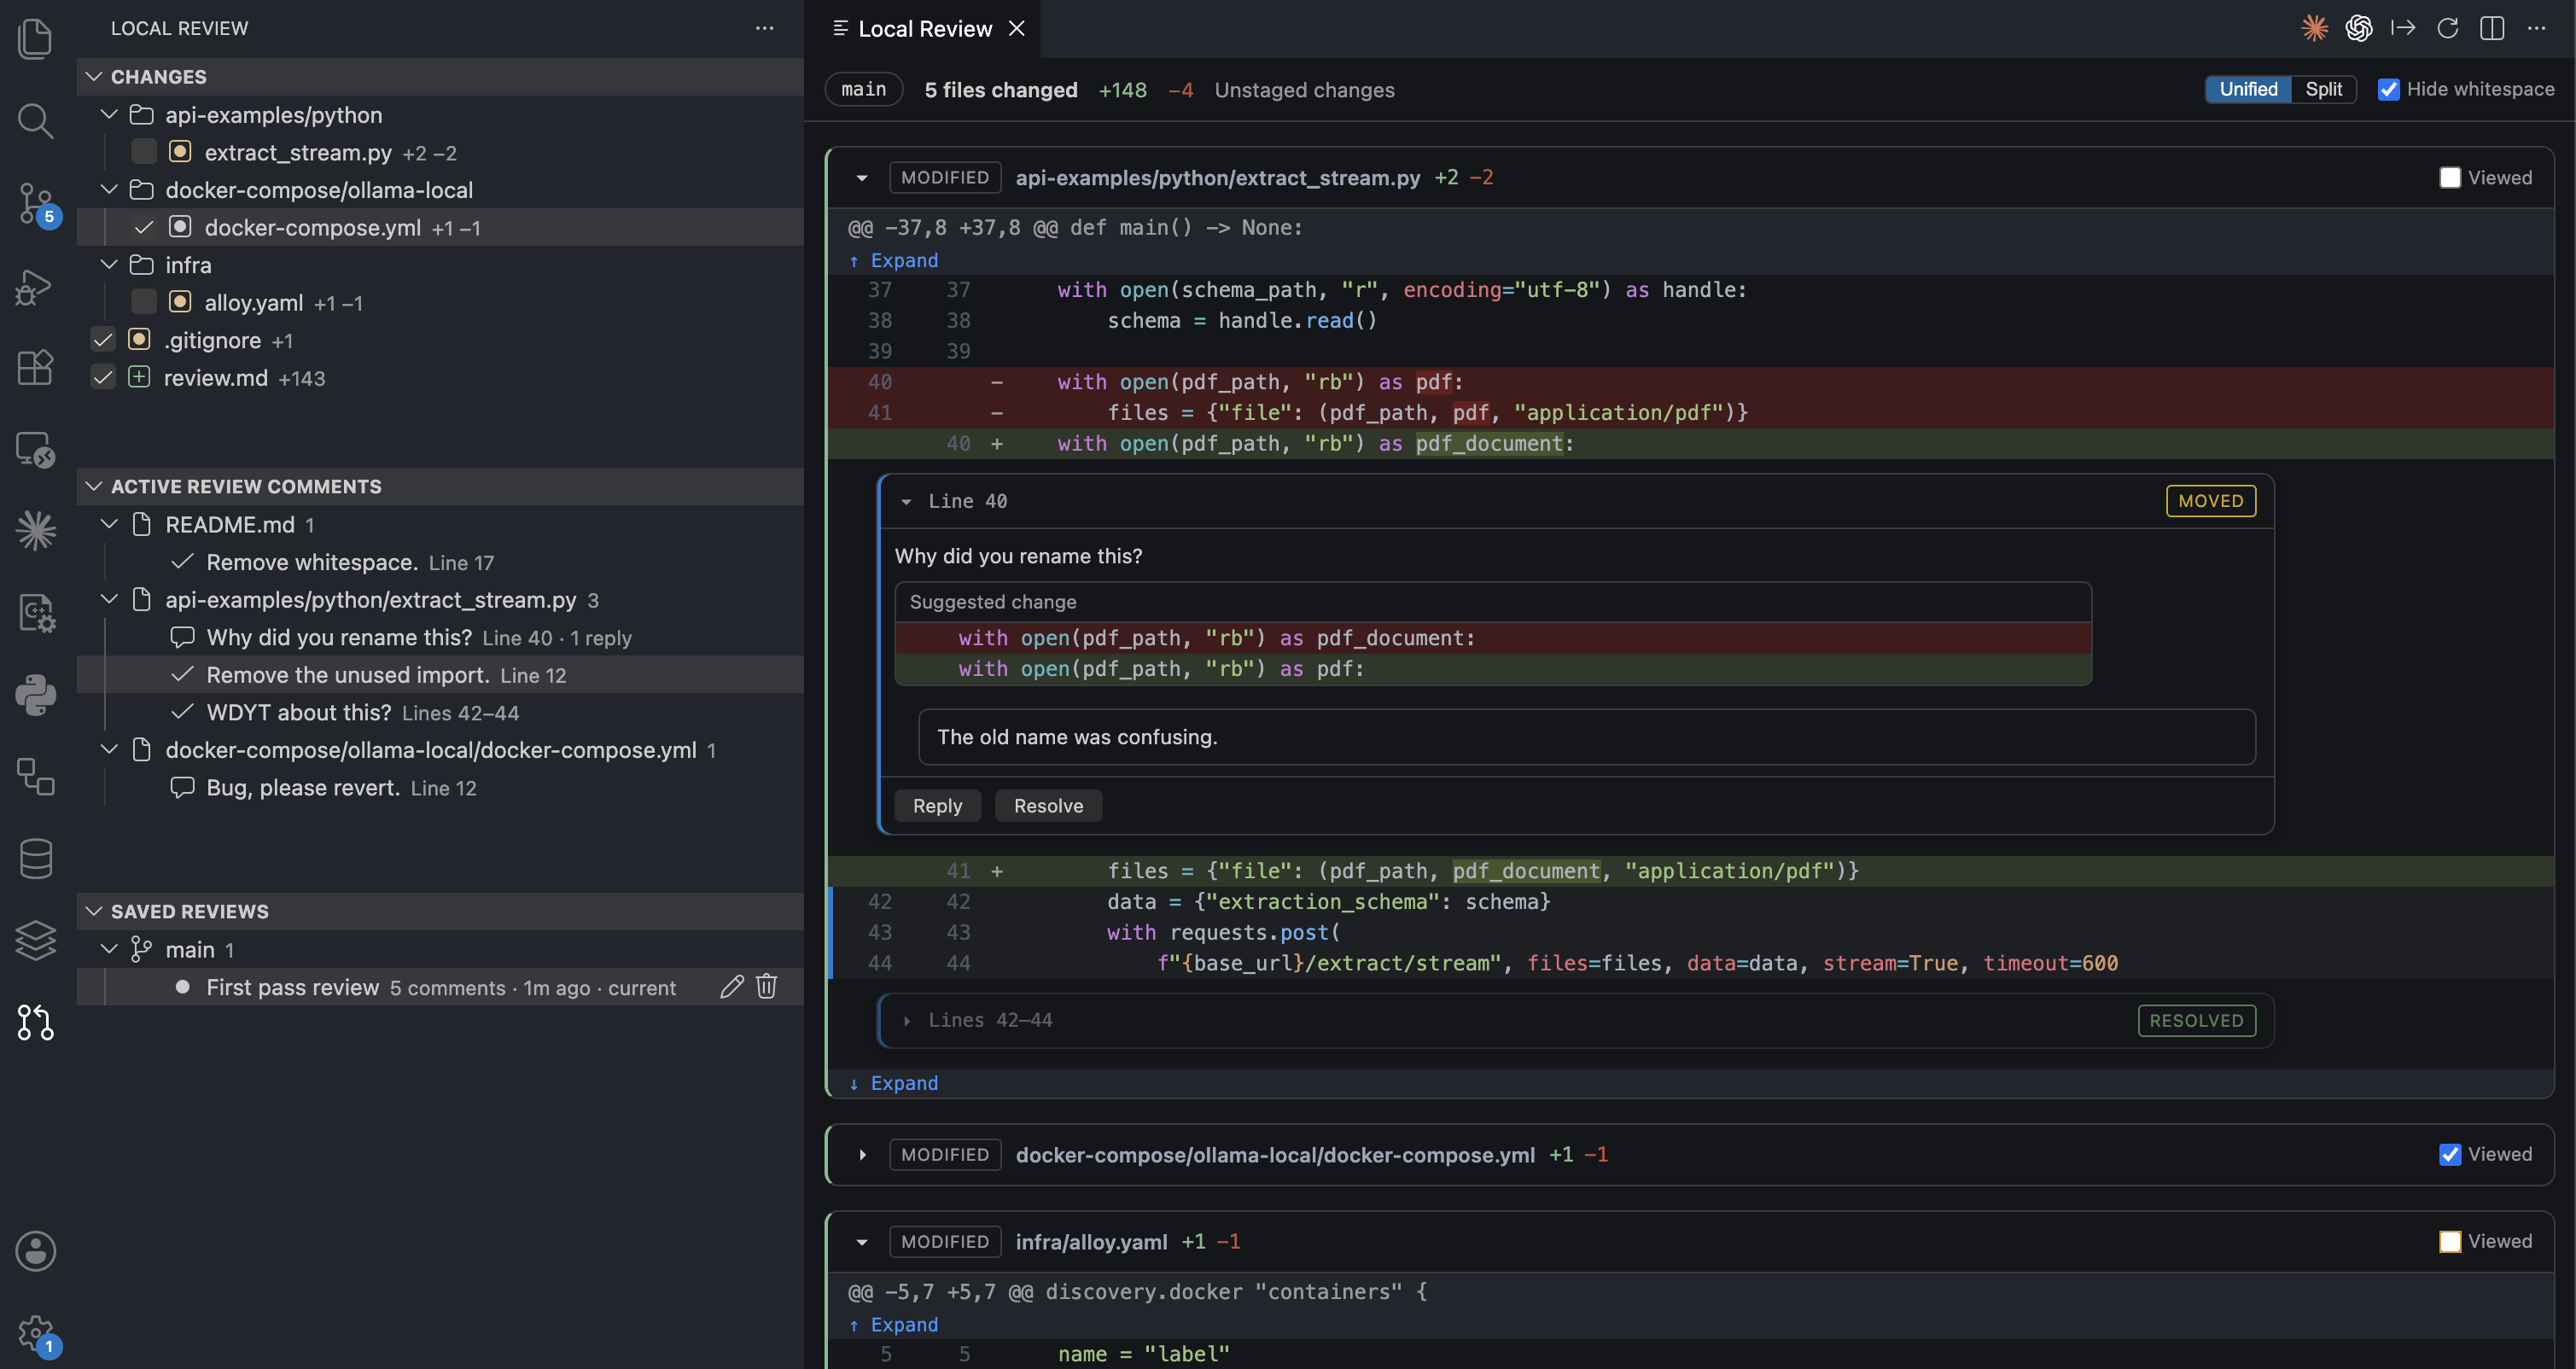
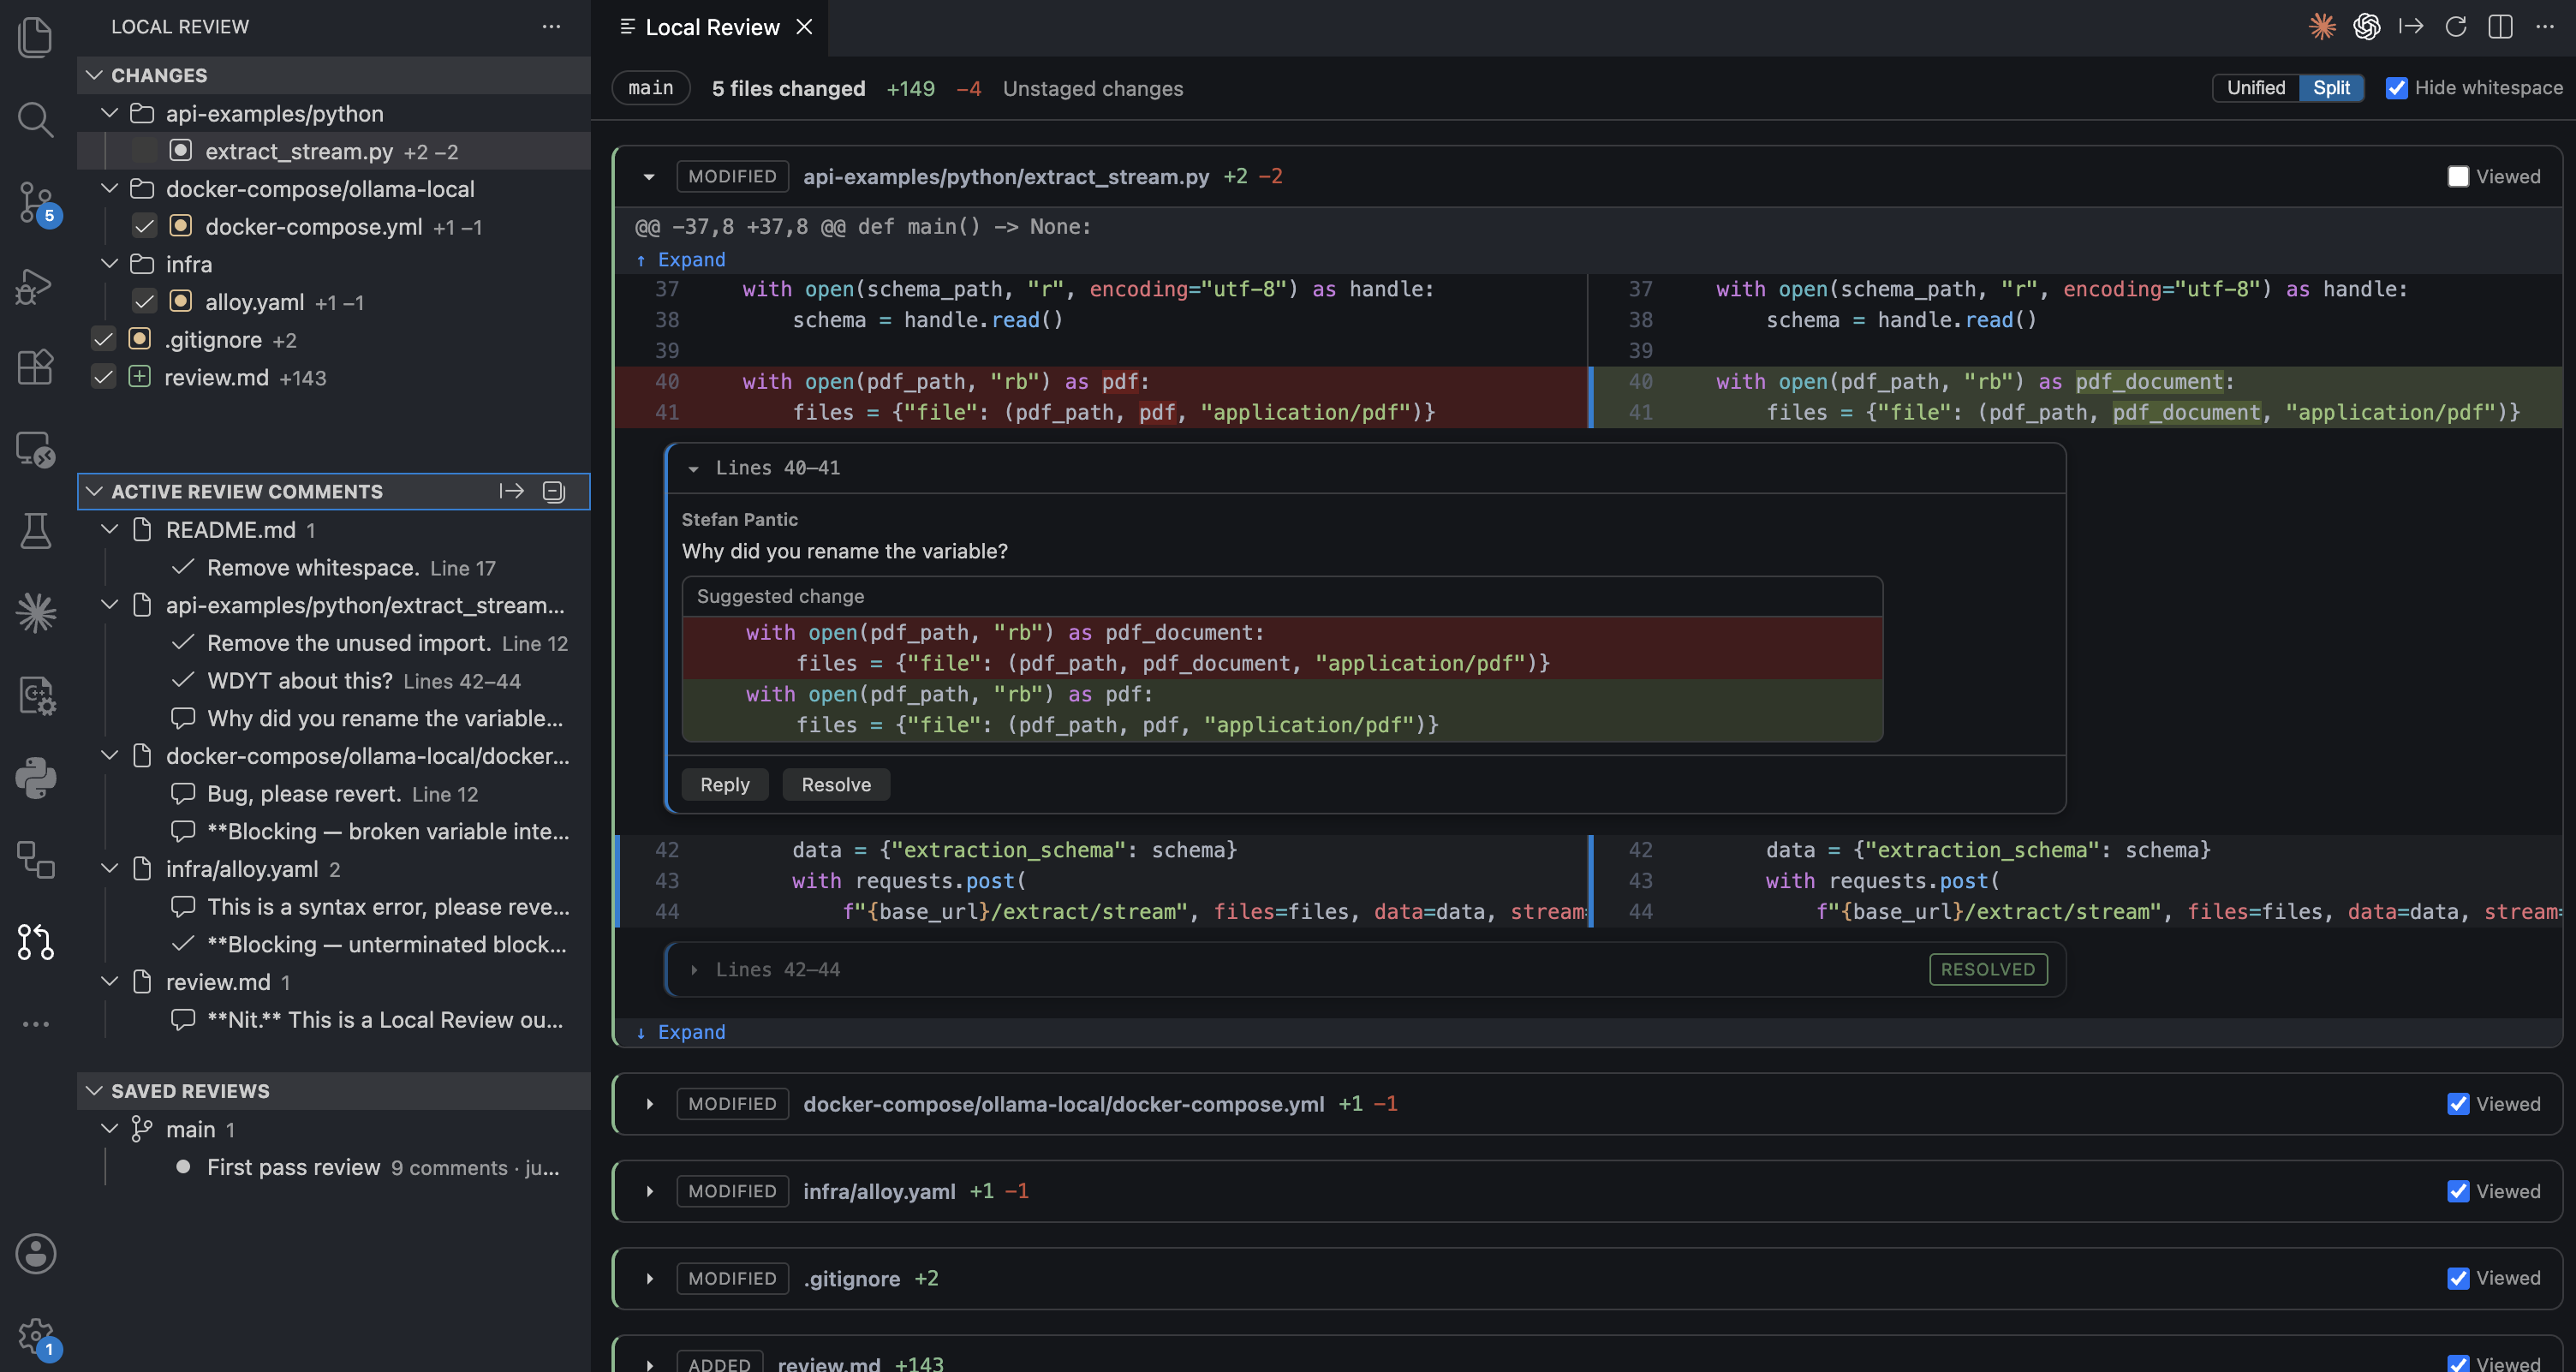
feat: make MCP setup client-agnostic
The MCP server is a standard server, so setup no longer targets Claude
specifically. "Set up MCP" (renamed from "Set up MCP for Claude Code")
writes .local-review/mcp.json with the URL, token, and ready-to-run
connect commands for Claude Code and a generic mcpServers config as
comments; the notification points to that file rather than copying a
Claude-only command.

Also refreshes the README (getting started, the agent/MCP loop, no
em-dashes) and updates the hero screenshot.

diff --git a/src/extension.ts b/src/extension.ts
@@ -104,21 +104,20 @@ export async function activate(context: vscode.ExtensionContext): Promise<void> 
       return;
     }
     const { url, token } = mcpHandle;
-    await writeMcpArtifacts(url, token);
-    // Remove-then-add so re-running is idempotent — it clears any prior (possibly stale-port) entry first.
-    const command = `claude mcp remove local-review 2>/dev/null; claude mcp add --transport http local-review ${url} --header "Authorization: Bearer ${token}"`;
-    await vscode.env.clipboard.writeText(command);
+    const jsonUri = await writeMcpArtifacts(url, token);
     const choice = await vscode.window.showInformationMessage(
       'Local Review MCP server is running.',
       {
         modal: true,
-        detail: `URL: ${url}\n\nTo (re)connect Claude Code, run this in your project (already copied to your clipboard). It replaces any existing entry:\n\n${command}`,
+        detail: `URL: ${url}\n\nConnect your MCP client using .local-review/mcp.json — it has the URL + token and ready-to-run connect commands for Claude Code and other clients.`,
       },
-      'Copy command again',
+      'Open mcp.json',
+      'Copy URL',
     );
-    if (choice === 'Copy command again') await vscode.env.clipboard.writeText(command);
+    if (choice === 'Open mcp.json' && jsonUri) await vscode.window.showTextDocument(jsonUri);
+    else if (choice === 'Copy URL') await vscode.env.clipboard.writeText(url);
   };
-  // Start on demand. First time (never configured) runs setup so the user gets the connect command.
+  // Start on demand. First time (never configured) runs setup so the user gets the connect details.
   const startMcp = async (): Promise<void> => {
     if (!context.workspaceState.get<boolean>('localReview.mcp.configured')) {
       await setupMcp();
@@ -126,7 +125,13 @@ export async function activate(context: vscode.ExtensionContext): Promise<void> 
     }
     mcpDesired = true;
     await syncMcp();
-    if (mcpHandle) void vscode.window.showInformationMessage(`Local Review MCP server is running at ${mcpHandle.url}.`);
+    if (!mcpHandle) return;
+    const jsonUri = await writeMcpArtifacts(mcpHandle.url, mcpHandle.token);
+    const choice = await vscode.window.showInformationMessage(
+      `Local Review MCP server is running at ${mcpHandle.url}.`,
+      'Open mcp.json',
+    );
+    if (choice === 'Open mcp.json' && jsonUri) await vscode.window.showTextDocument(jsonUri);
   };
   const stopMcp = async (): Promise<void> => {
     mcpDesired = false;
@@ -206,17 +211,36 @@ export function deactivate(): void {
   // context.subscriptions handles cleanup
 }
 
-/** Write the MCP connection file (`.local-review/mcp.json`) and make sure `.local-review/` is gitignored. */
-async function writeMcpArtifacts(url: string, token: string): Promise<void> {
+/**
+ * Write the client-agnostic connect file (`.local-review/mcp.json`) and gitignore `.local-review/`; returns its Uri.
+ * It's a standard MCP server, so connect commands for common clients live as comments and the connection
+ * details are the JSON body. Nothing parses this file — it's a reference the user opens.
+ */
+async function writeMcpArtifacts(url: string, token: string): Promise<vscode.Uri | undefined> {
   const folder = vscode.workspace.workspaceFolders?.[0];
-  if (!folder) return;
+  if (!folder) return undefined;
   const root = folder.uri.fsPath;
   await fs.mkdir(path.join(root, '.local-review'), { recursive: true });
-  await fs.writeFile(
-    path.join(root, '.local-review', 'mcp.json'),
-    JSON.stringify({ url, token }, null, 2) + '\n',
-    'utf8',
-  );
+
+  const content = `// Local Review MCP server — a standard, local (127.0.0.1), token-guarded MCP server over Streamable HTTP.
+// Connect any MCP client with the url + token below. Ready-to-use options:
+//
+// Claude Code (CLI):
+//   claude mcp remove local-review 2>/dev/null; claude mcp add --transport http local-review ${url} --header "Authorization: Bearer ${token}"
+//
+// mcpServers config (Claude Desktop, Cursor, Windsurf, VS Code, …) — add under "mcpServers":
+//   "local-review": {
+//     "type": "http",
+//     "url": "${url}",
+//     "headers": { "Authorization": "Bearer ${token}" }
+//   }
+//
+// Regenerated by "Set up MCP" / "Start MCP Server". The port + token persist across restarts.
+${JSON.stringify({ url, token, transport: 'http' }, null, 2)}
+`;
+  const jsonUri = vscode.Uri.file(path.join(root, '.local-review', 'mcp.json'));
+  await fs.writeFile(jsonUri.fsPath, content, 'utf8');
+
   const gitignore = path.join(root, '.gitignore');
   let text = '';
   try {
@@ -227,6 +251,7 @@ async function writeMcpArtifacts(url: string, token: string): Promise<void> {
   if (!text.split(/\r?\n/).some((line) => line.trim().replace(/\/$/, '') === '.local-review')) {
     await fs.writeFile(gitignore, text + (text && !text.endsWith('\n') ? '\n' : '') + '.local-review/\n', 'utf8');
   }
+  return jsonUri;
 }
 
 const SOURCES: { label: string; description: string; source: DiffSource }[] = [

diff --git a/README.md b/README.md
@@ -5,43 +5,55 @@
 [![Conventional Commits](https://img.shields.io/badge/Conventional%20Commits-1.0.0-fe5196.svg)](https://www.conventionalcommits.org)
 [![code style: Prettier](https://img.shields.io/badge/code_style-Prettier-ff69b4.svg)](https://prettier.io)
 
-**Review your local changes like a GitHub pull request — without opening one.**
+Review your local git changes like a pull request, without opening one. Then hand the review to a coding agent, or let the agent post its own.
 
-Local Review renders your working-tree diff as a continuous, PR-style review surface right inside VS Code: side-by-side or unified, syntax-highlighted, with inline comments on any line or range. When you're done, it exports a structured Markdown work list you can hand to a coding agent (e.g. Claude Code) to action.
+> **Everything stays on your machine.** No remote, no PR, no account, no telemetry.
 
-> **Everything stays on your machine.** No remote, no PR, no account, no telemetry. Local Review never sends your code anywhere — it's a private review loop for your own changes.
+![Local Review: a unified diff with an inline comment, a suggested change, and the sidebar showing changed files, active comments, and saved reviews](docs/images/review-panel.png)
 
-![Local Review — a unified diff with an inline comment, a suggested change, and the sidebar showing changed files, active comments, and saved reviews](docs/images/review-panel.png)
+## What it does
 
-## Why
+- Renders your working-tree diff as a continuous, PR-style review inside VS Code (unified or side-by-side, syntax-highlighted).
+- Lets you comment on any line or range, on added or removed lines, with reply, resolve, and code suggestions.
+- Keeps comments anchored as code shifts. They drift with their lines, or go "outdated", never silently lost.
+- Saves a review per branch automatically.
+- Hands off to a coding agent two ways: a structured Markdown export, or a live MCP connection.
 
-Opening a draft PR just to get a structured, line-anchored review of your own work is heavyweight: it needs a remote, pollutes history, and round-trips through a server. Local Review keeps the _discipline_ of PR review — continuous diff, "viewed" tracking, line comments, resolve/reply — entirely local, and turns the result into an agent-ready task list.
+## Getting started
 
-## The review loop
+1. Install the extension (see [Install](#install)).
+2. Make some local changes, then open **Local Review** from the activity bar. The diff opens in a full-width tab.
+3. Hover a line and click **+** (or drag to select a range) to comment. Reply and resolve as you go.
+4. Hand it to a coding agent:
+   - **Export:** run **Export Review** for a Markdown work list (clipboard, file, or editor), then paste it into your agent.
+   - **MCP (live):** run **Set up MCP**, connect your agent, and it reads the diff and posts comments straight into the review.
 
-1. Make some local changes.
-2. Open **Local Review** from the activity bar — the diff opens in a full-width editor tab.
-3. Read it: toggle unified/side-by-side, hide whitespace, mark files as viewed.
-4. Leave inline comments on lines or ranges (on added _and_ removed lines); reply and resolve as your thinking evolves.
-5. **Export Review** → a structured Markdown file (or clipboard).
-6. Paste it into your coding agent to action the comments. As the agent edits, your comments **drift** with their lines or surface as _outdated_.
+## Agent integration (MCP)
+
+Local Review runs a standard, local MCP server (bound to `127.0.0.1`, token-guarded, off by default) that any MCP client can use. The handoff goes both ways: you comment and the agent actions it, and the agent can post its own comments, replies, and suggestions that show up in the panel attributed to "AI Agent", anchored like yours.
+
+1. Run **Local Review: Set up MCP**. Pick a port and whether to start it on launch.
+2. It writes `.local-review/mcp.json` with the URL, token, and ready-to-run connect commands (Claude Code, plus a generic `mcpServers` config for other clients).
+3. Connect your client. Use **Start MCP Server** / **Stop MCP Server** to control it anytime.
+
+Tools the agent gets: `get_diff`, `get_review`, `list_reviews`, `post_comment`, `reply`, `resolve`. It never writes to your files. It posts comments, and actions them by editing code itself.
 
 ## Features
 
-- **Continuous multi-file diff** across everything that changed, in one scrollable surface.
-- **Unified and side-by-side** rendering, toggleable.
-- **Syntax highlighting**, with **intra-line word highlighting** — a modified line highlights only the characters that actually changed (like the native diff editor).
-- **Expand context** at hunk boundaries to reveal the surrounding unchanged lines.
+- **Unified and side-by-side** diff, toggleable.
+- **Syntax highlighting** with intra-line word highlighting (only the changed characters light up).
+- **Expand context** at hunk boundaries to reveal surrounding lines.
 - **Hide whitespace** changes.
-- **Inline comments** on single lines and multi-line ranges, on both the old and new side — with **edit / delete / reply / resolve**.
-- **Suggestions** — propose replacement code inside a comment, rendered as a before→after diff and captured in the export. (Suggestions are never written to your files.)
-- **Line drift** — comments follow their lines as code changes, and become _outdated_ (never silently deleted) when they can't be matched.
-- **Branch-tied review sessions** — your comments are saved automatically per branch. Switch branches and the matching review follows. Reviews for deleted/merged branches are **archived**, never lost, and can be moved to the current branch.
-- **Structured Markdown export** — grouped by file with locations, diff context, comment text, and suggestion blocks. Scope to all comments, unresolved only, or a single file; reference lines by their current (re-anchored) positions or as originally reviewed; copy to clipboard, open in an editor, or save to a file.
+- **Inline comments** on single lines or ranges, old or new side, with edit, delete, reply, resolve.
+- **Suggestions:** propose replacement code in a comment, rendered as a before/after diff and captured in the export. Never written to disk.
+- **Markdown comments**, rendered in the panel.
+- **Line drift:** comments follow their lines, and go "outdated" instead of vanishing when they can't be matched.
+- **Branch-tied reviews:** saved automatically per branch. Reviews for deleted or merged branches are archived, not lost, and can be moved to the current branch.
+- **Structured Markdown export:** grouped by file, scoped to all, unresolved, or one file, at current or as-reviewed line positions.
 
 ## Diff sources
 
-Pick what you're reviewing from **Select Diff Source**:
+Pick what you review from **Select Diff Source**:
 
 | Source                    | What it shows                          |
 | ------------------------- | -------------------------------------- |
@@ -50,15 +62,14 @@ Pick what you're reviewing from **Select Diff Source**:
 | **Staged changes**        | staged for commit                      |
 | **Compare with a branch** | diff against another local branch      |
 
-Switching source only changes _what diff you see_ — your comments re-anchor against whatever is loaded, so staging a hunk or switching source never orphans a comment.
+Switching source changes only what you see. Comments re-anchor against whatever is loaded, so staging a hunk or switching source never orphans one.
 
 ## Install
 
-Local Review isn't on the Marketplace yet. Install the packaged `.vsix`:
+Not on the Marketplace yet. Install the packaged `.vsix`:
 
-1. Download `local-review-<version>.vsix` from the [Releases](https://github.com/stefanpantic/local-review-vscode-extension/releases) page — or build it yourself with `pnpm run package` (see [CONTRIBUTING](CONTRIBUTING.md)).
-2. In VS Code: **Extensions** view → **⋯** menu → **Install from VSIX…** → pick the file.
-   (Or from the command line: `code --install-extension local-review-<version>.vsix`.)
+1. Download `local-review-<version>.vsix` from [Releases](https://github.com/stefanpantic/local-review-vscode-extension/releases), or build it with `pnpm run package` (see [CONTRIBUTING](CONTRIBUTING.md)).
+2. In VS Code: **Extensions** view, `⋯` menu, **Install from VSIX…**. Or run `code --install-extension local-review-<version>.vsix`.
 
 ## Keybindings
 
@@ -70,19 +81,21 @@ Local Review isn't on the Marketplace yet. Install the packaged `.vsix`:
 
 ## Settings
 
-| Setting                             | Default            | Description                                                                     |
-| ----------------------------------- | ------------------ | ------------------------------------------------------------------------------- |
-| `localReview.defaultSource`         | `worktree-vs-head` | Diff source when a review is first opened.                                      |
-| `localReview.defaultViewMode`       | `unified`          | Default rendering mode (`unified` or `split`).                                  |
-| `localReview.defaultHideWhitespace` | `false`            | Hide whitespace-only changes by default.                                        |
-| `localReview.includeUntracked`      | `true`             | Include untracked files (as all-addition entries; ignores `.gitignore`d files). |
-| `localReview.largeFileThreshold`    | `1000`             | Files with more than this many changed lines start collapsed.                   |
-| `localReview.contextLines`          | `3`                | Lines of surrounding context captured for comments and export.                  |
-| `localReview.log`                   | `false`            | Write diagnostic logs to the "Local Review" output channel.                     |
+| Setting                             | Default            | Description                                                    |
+| ----------------------------------- | ------------------ | -------------------------------------------------------------- |
+| `localReview.defaultSource`         | `worktree-vs-head` | Diff source when a review is first opened.                     |
+| `localReview.defaultViewMode`       | `unified`          | Default rendering mode (`unified` or `split`).                 |
+| `localReview.defaultHideWhitespace` | `false`            | Hide whitespace-only changes by default.                       |
+| `localReview.includeUntracked`      | `true`             | Include untracked files (ignores `.gitignore`d files).         |
+| `localReview.largeFileThreshold`    | `1000`             | Files with more changed lines than this start collapsed.       |
+| `localReview.contextLines`          | `3`                | Lines of surrounding context captured for comments and export. |
+| `localReview.mcp.autoStart`         | `false`            | Start the MCP server when VS Code launches.                    |
+| `localReview.mcp.port`              | `0`                | MCP server port (`0` picks a free port and reuses it).         |
+| `localReview.log`                   | `false`            | Write diagnostic logs to the "Local Review" output channel.    |
 
 ## Contributing
 
-Development setup, the build/watch loop, and the release process live in [CONTRIBUTING.md](CONTRIBUTING.md). Bug reports and feature requests are welcome via the [issue templates](https://github.com/stefanpantic/local-review-vscode-extension/issues/new/choose).
+Development setup, the build and watch loop, and the release process are in [CONTRIBUTING.md](CONTRIBUTING.md). Bug reports and feature requests are welcome via the [issue templates](https://github.com/stefanpantic/local-review-vscode-extension/issues/new/choose).
 
 ## License
 

diff --git a/docs/iterations/iteration-9-agentic-integration/refinement.md b/docs/iterations/iteration-9-agentic-integration/refinement.md
@@ -10,7 +10,7 @@
 - **D2 — Full-participant tool surface.** `list_reviews`, `get_review`, `get_diff`, `post_comment`, `reply`, `resolve` (+ `unresolve`). `get_diff` returns the **normalized** diff (files/hunks with old+new line numbers and sides) so the agent posts on coordinates that anchor cleanly.
 - **D3 — Agent comments are first-class.** `post_comment` runs the **existing anchoring engine** (captures line text + surrounding context + original hunk from the current diff), so agent threads drift / go outdated exactly like human ones. Anchoring stays **scoped to the diff** (invariant 2 unchanged): a thread posted on a line **not present in the current diff** (added, removed, or an in-hunk context line) is rejected with a clear error. The agent sees the commentable lines via `get_diff`.
 - **D4 — Provenance / author.** Every new comment and reply carries an **`author`**: ones you leave are attributed to your **git username** (`git config user.name`); ones posted through the MCP server are attributed to **`"AI Agent"`**. The UI shows the author and badges agent entries, so it's always clear who said what. (Comments from before this iteration have no author and render unattributed.)
-- **D5 — Local-only + opt-in, with explicit lifecycle.** The server binds **127.0.0.1** only, is guarded by a **token**, and is **off by default**. Autostart on launch is opt-in (`localReview.mcp.autoStart`); **Start MCP Server** / **Stop MCP Server** control it on demand (Start runs setup first if never configured). A **"Set up MCP for Claude Code"** command prompts for the port + autostart, persists the port (stable URL across restarts), writes `.local-review/mcp.json` (gitignored), and copies an idempotent `claude mcp` one-liner. A localhost server doesn't change "nothing leaves the box."
+- **D5 — Local-only + opt-in, with explicit lifecycle.** The server binds **127.0.0.1** only, is guarded by a **token**, and is **off by default**. Autostart on launch is opt-in (`localReview.mcp.autoStart`); **Start MCP Server** / **Stop MCP Server** control it on demand (Start runs setup first if never configured). A **"Set up MCP"** command prompts for the port + autostart, persists the port (stable URL across restarts), and writes client-agnostic connect details to `.local-review/mcp.json` (gitignored): URL + token plus connect commands for Claude Code and a generic `mcpServers` config as comments; the notification points there. It's a standard MCP server, so nothing is tool-specific. A localhost server doesn't change "nothing leaves the box."
 - **D6 — Never applies code.** Comments and suggestions are captured/exported only; the agent actions them by editing files itself (its normal loop), never via Local Review writing to disk (spec §3).
 
 ## Goal
@@ -19,7 +19,7 @@ Open Local Review, enable the MCP server, point Claude Code at it. Claude fetche
 
 ## Acceptance criteria (tick in place)
 
-- [ ] **AC1 — Server + discovery + lifecycle.** The setup command prompts for port + autostart and produces a working `claude mcp` registration; the server serves on `127.0.0.1:<port>`; Claude Code connects and lists the tools. Start/Stop commands and `mcp.autoStart` (on launch) control it; the port persists so the URL survives restarts.
+- [ ] **AC1 — Server + discovery + lifecycle.** The setup command prompts for port + autostart and writes client-agnostic connect details to `.local-review/mcp.json`; the server serves on `127.0.0.1:<port>`; an MCP client (e.g. Claude Code) connects and lists the tools. Start/Stop commands and `mcp.autoStart` (on launch) control it; the port persists so the URL survives restarts.
 - [ ] **AC2 — Fetch.** `list_reviews` returns the repo's reviews (current flagged); `get_review` returns the current (or named) review — threads with location, side, status, resolved, author, comments, suggestion, diff hunk.
 - [ ] **AC3 — Diff.** `get_diff` returns the current diff as compact **annotated patch text** (`<sign> <lineNo> | <code>`, per file/hunk) — readable, not a JSON wall, with the old/new line numbers + side needed to post.
 - [ ] **AC4 — Post.** `post_comment({file, side, startLine, endLine?, body, suggestion?})` creates an anchored thread that appears live in the panel + sidebar; range + suggestion supported.

diff --git a/CLAUDE.md b/CLAUDE.md
@@ -22,7 +22,7 @@ Work proceeds **one iteration at a time** — never open two at once. Rhythm: **
 
 ## MCP integration (participating in a review as an agent)
 
-Local Review can run a local MCP server so you can take part in a review. Set it up with the **"Local Review: Set up MCP for Claude Code"** command — it prompts for a port and whether to autostart, then copies a `claude mcp` one-liner to the clipboard (run it once to register; re-running is safe). Afterwards **Start MCP Server** / **Stop MCP Server** control it, and `localReview.mcp.autoStart` runs it on launch. The server is **localhost-only** (`127.0.0.1`, bearer-token).
+Local Review can run a local MCP server so you can take part in a review. Set it up with the **"Local Review: Set up MCP"** command. It prompts for a port and whether to autostart, then writes the connection details to **`.local-review/mcp.json`** with ready-to-run connect commands for Claude Code and other MCP clients (it is a standard MCP server, not tool-specific). Afterwards **Start MCP Server** / **Stop MCP Server** control it, and `localReview.mcp.autoStart` runs it on launch. The server is **localhost-only** (`127.0.0.1`, bearer-token).
 
 Once connected, these tools are available:
 

diff --git a/docs/decisions/0010-mcp-agentic-integration.md b/docs/decisions/0010-mcp-agentic-integration.md
@@ -14,7 +14,7 @@ Options considered: (a) a shared on-disk review store both sides read/write; (b)
 - **Full-participant tool surface:** `list_reviews`, `get_review`, `get_diff` (fetch), and `post_comment`, `reply`, `resolve` (participate). `get_diff` returns the normalized diff so the agent posts on coordinates that anchor cleanly.
 - **Anchoring unchanged (invariant 2 holds).** Agent comments run the existing anchoring engine and stay **scoped to the diff**: a comment on a line not present in the current diff is rejected with a clear error. Commentable lines are the changed lines plus their surrounding context (what `get_diff` returns).
 - **Provenance.** Every comment carries an `author`: the human's git username, or **"AI Agent"** for anything posted through MCP; the UI badges agent entries.
-- **Local-only + opt-in.** Bound to `127.0.0.1`, guarded by a bearer token, **off by default** — autostart on launch is opt-in (`localReview.mcp.autoStart`), and Start/Stop commands control it on demand. A "Set up MCP for Claude Code" command prompts for the port and autostart, persists the port so the URL survives restarts, writes the connection into `.local-review/` (gitignored), and copies the `claude mcp` one-liner. Never binds a non-loopback address — "nothing leaves the box" holds.
+- **Local-only + opt-in.** Bound to `127.0.0.1`, guarded by a bearer token, **off by default**. Autostart on launch is opt-in (`localReview.mcp.autoStart`), and Start/Stop commands control it on demand. A "Set up MCP" command prompts for the port and autostart, persists the port so the URL survives restarts, and writes client-agnostic connect details (URL + token, with connect commands for Claude Code and other MCP clients as comments) to `.local-review/mcp.json` (gitignored); the notification points there. It is a standard MCP server, so it is not tool-specific. It never binds a non-loopback address, so "nothing leaves the box" holds.
 - **Never applies code.** Comments and suggestions are captured/exported only; the agent actions them by editing files itself.
 
 ## Consequences